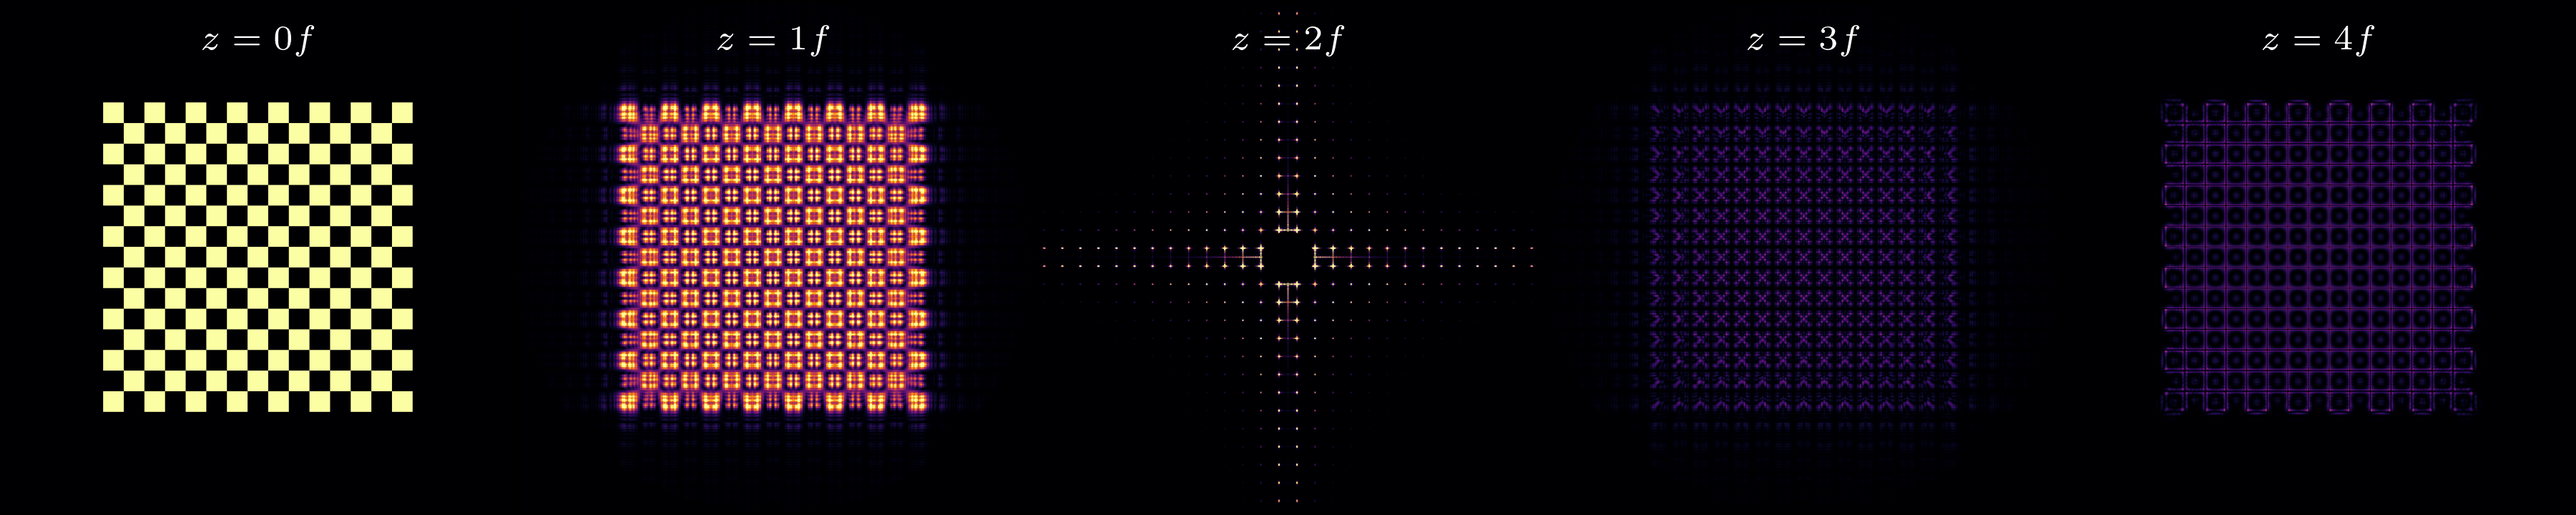
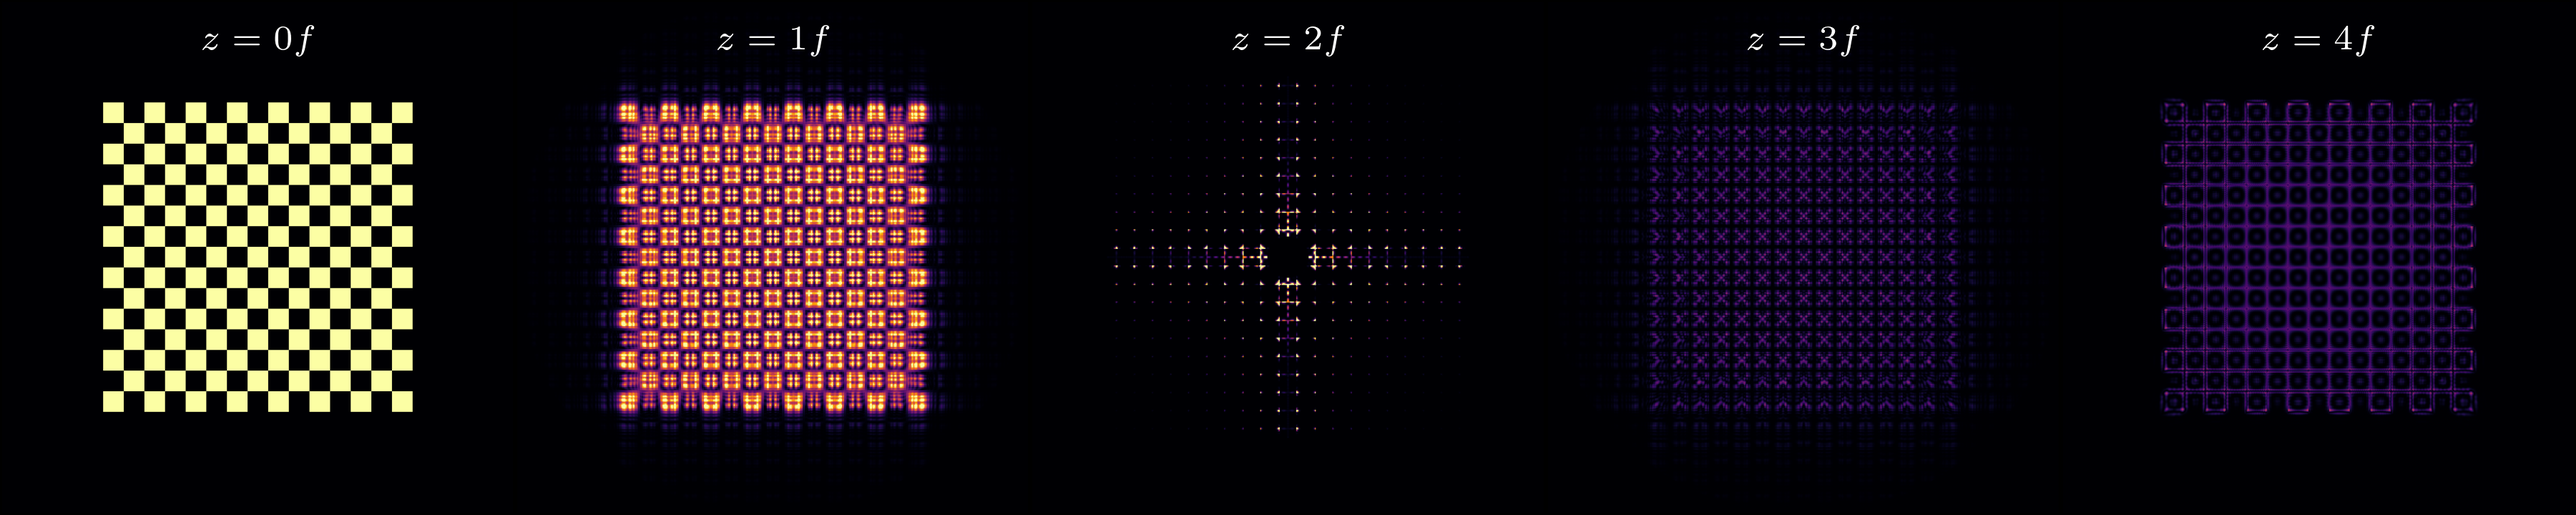
Update documentation (#93)

diff --git a/examples/optical_systems/4f_system.py b/examples/optical_systems/4f_system.py
@@ -9,7 +9,7 @@ transform of the field at the midplane. Inserting amplitude masks at this Fourie
 plane enables spatial filtering: low-pass filters smooth the image, while high-pass
 filters extract edges and fine detail.
 
-The four focal planes have distinct physical meanings:
+The five key planes have distinct physical meanings:
 
 - :math:`z = 0` — Input plane: the object field
 - :math:`z = f` — Back focal plane of lens 1: spatial frequency spectrum begins forming
@@ -39,12 +39,12 @@ from torchoptics.profiles import checkerboard, circle
 # A checkerboard input field tests both low- and high-frequency response,
 # since a checkerboard contains spatial frequencies near its fundamental tile period.
 
-shape = 1000  # Grid size (number of points per dimension)
+shape = 500  # Grid size (number of points per dimension)
 spacing = 10e-6  # Grid spacing (m)
 wavelength = 700e-9  # Wavelength (m)
-focal_length = 200e-3  # Lens focal length (m)
+focal_length = 50e-3  # Lens focal length (m)
 
-tile_length = 400e-6  # Checkerboard tile size (m)
+tile_length = 200e-6  # Checkerboard tile size (m)
 num_tiles = 15  # Number of tiles in each dimension
 
 device = "cuda" if torch.cuda.is_available() else "cpu"
@@ -90,7 +90,7 @@ plt.show()
 # frequencies, leaving only the low-frequency content. The result is a blurred
 # version of the input; edges are smoothed and fine detail is lost.
 
-radius = 500e-6  # Low-pass filter radius in the Fourier plane (m)
+radius = 200e-6  # Low-pass filter radius in the Fourier plane (m)
 low_pass_profile = circle(shape, radius)
 
 low_pass_4f_system = System(

diff --git a/examples/optimization/training_petal_beam.py b/examples/optimization/training_petal_beam.py
@@ -52,7 +52,7 @@ torchoptics.set_default_wavelength(700e-9)
 # Target Field: Eight-Petal Beam
 # ------------------------------
 # The target is an interference pattern formed by the superposition of two Laguerre-Gaussian
-# modes :math:`\mathrm{LG}_{0}^{4}` and :math:`\mathrm{LG}_{0}^{-4}`, producing an
+# modes :math:`\mathrm{LG}_{0}^{+4}` and :math:`\mathrm{LG}_{0}^{-4}`, producing an
 # eight-petal intensity distribution.
 
 petal_profile = laguerre_gaussian(shape, p=0, l=4, waist_radius=waist_radius)

diff --git a/docs/source/quickstart/index.rst b/docs/source/quickstart/index.rst
@@ -62,8 +62,8 @@ Let's create a field from a circular aperture:
 .. plot::
     :context: close-figs
 
-    shape = 1000  # 1000×1000 grid (10 mm × 10 mm physical extent)
-    field = Field(circle(shape, radius=2e-3))
+    shape = 500  # 500×500 grid (5 mm × 5 mm physical extent)
+    field = Field(circle(shape, radius=1e-3))
     field.visualize(title="Circular Aperture (z = 0)")
 
 Use :meth:`~torchoptics.Field.propagate_to_z` to propagate a field through free space. As light
@@ -73,13 +73,13 @@ travels, it diffracts, producing characteristic patterns at different distances:
     :context: close-figs
 
     # Near-field (Fresnel) diffraction
-    field.propagate_to_z(0.5).visualize(title="z = 0.5 m  (Fresnel region)")
+    field.propagate_to_z(0.2).visualize(title="z = 0.2 m  (Fresnel region)")
 
 .. plot::
     :context: close-figs
 
     # Far-field (Fraunhofer) diffraction: the Airy pattern
-    field.propagate_to_z(10.0).visualize(title="z = 10.0 m  (Fraunhofer region)")
+    field.propagate_to_z(2.0).visualize(title="z = 2.0 m  (Fraunhofer region)")
 
 Close to the aperture (the Fresnel region), diffraction produces fringes near the edges. Far away
 (the Fraunhofer region), the wavefront converges to the `Airy pattern
@@ -107,18 +107,18 @@ where :math:`r = \sqrt{x^2 + y^2}`, :math:`R` is the aperture radius (half the l
 physical extent), :math:`\lambda` is the wavelength, and :math:`f` is the focal length.
 
 Calling an element on a field (``lens(field)``) applies this transformation. Let's focus a Gaussian
-beam with a 400 mm lens:
+beam with a 200 mm lens:
 
 .. plot::
     :context: close-figs
 
-    gaussian_beam = Field(gaussian(shape, waist_radius=3e-3))
+    gaussian_beam = Field(gaussian(shape, waist_radius=1e-3))
     gaussian_beam.visualize(title="Gaussian Beam (z = 0)")
 
 .. plot::
     :context: close-figs
 
-    f = 1  # Focal length: 1 m
+    f = 200e-3  # Focal length: 200 mm
     lens = Lens(shape, f, z=0)
 
     focused = lens(gaussian_beam).propagate_to_z(f)
@@ -144,15 +144,15 @@ blocks low spatial frequencies, extracting edges from a checkerboard:
 .. plot::
     :context: close-figs
 
-    input_field = Field(checkerboard(shape, tile_length=400e-6, num_tiles=15))
+    input_field = Field(checkerboard(shape, tile_length=200e-6, num_tiles=15))
     input_field.visualize(title="Input Field", vmax=1)
 
 .. plot::
     :context: close-figs
 
     # High-pass filter at the Fourier plane (z = 2f)
-    f = 200e-3  # Focal length: 200 mm
-    filter_mask = 1 - circle(shape, radius=500e-6)
+    f = 50e-3  # Focal length: 50 mm
+    filter_mask = 1 - circle(shape, radius=200e-6)
     aperture = AmplitudeModulator(filter_mask, z=2 * f)
 
     aperture.visualize(title="High-Pass Filter at Fourier Plane")

diff --git a/docs/source/user-guide/fields.rst b/docs/source/user-guide/fields.rst
@@ -152,16 +152,17 @@ The overlap integral between two fields is:
 
 .. math::
 
-    \langle \psi_1 | \psi_2 \rangle = \sum_{i,j} \psi_1^*(i,j) \, \psi_2(i,j) \, \Delta A
+    \eta = \sum_{i,j} \psi_1(i,j) \, \psi_2^*(i,j) \, \Delta A
 
-:meth:`~torchoptics.Field.inner` returns this as a complex scalar. Taking the squared magnitude
-gives the **mode overlap** :math:`|\langle\psi_1|\psi_2\rangle|^2`: a value in :math:`[0, 1]`
-when both fields are normalized to unit power (by Cauchy–Schwarz), and a natural fidelity metric
-for inverse design (see :doc:`inverse_design`):
+:meth:`~torchoptics.Field.inner` returns this as a complex scalar, where :math:`\psi_1` is
+``self`` and :math:`\psi_2` is the argument. Taking the squared magnitude gives the
+**mode overlap** :math:`|\eta|^2`: a value in :math:`[0, 1]` when both fields are normalized
+to unit power (by Cauchy–Schwarz), and a natural fidelity metric for inverse design
+(see :doc:`inverse_design`):
 
 .. code-block:: python
 
-    overlap = field_a.inner(field_b).abs().square()  # in [0, 1] if both normalized
+    overlap = field_a.inner(field_b).abs().square()  # |η|² in [0, 1] if both normalized
     loss = 1 - overlap
 
 Both fields must share the same geometry (``shape``, ``spacing``, ``offset``, and ``z``).

diff --git a/docs/source/user-guide/spatial_coherence.rst b/docs/source/user-guide/spatial_coherence.rst
@@ -45,10 +45,11 @@ and Gaussian coherence:
     \Gamma(x_1, y_1, x_2, y_2) = \sqrt{I(x_1,y_1)\,I(x_2,y_2)} \cdot
     \exp\!\left(-\frac{|\mathbf{r}_1-\mathbf{r}_2|^2}{2\sigma_c^2}\right)
 
-where :math:`I(x,y) = \exp(-2r^2/w^2)` is the Gaussian intensity with waist :math:`w`, and
-:math:`\sigma_c` is the **coherence width**: the length scale over which the field remains
-correlated. A small :math:`\sigma_c` (much less than :math:`w`) gives a low-coherence source
-like an LED; a large :math:`\sigma_c` approaches a coherent Gaussian beam:
+where :math:`I(x,y) = \frac{2}{\pi w^2}\exp(-2r^2/w^2)` is the Gaussian intensity with waist
+:math:`w` (normalized to unit power), and :math:`\sigma_c` is the **coherence width**: the
+length scale over which the field remains correlated. A small :math:`\sigma_c` (much less than
+:math:`w`) gives a low-coherence source like an LED; a large :math:`\sigma_c` approaches a
+coherent Gaussian beam:
 
 .. plot::
     :context: reset

diff --git a/docs/source/user-guide/propagation.rst b/docs/source/user-guide/propagation.rst
@@ -19,9 +19,10 @@ a critical distance :math:`z_c` and comparing it to the propagation distance
 
     z_c = \frac{2 \, |x_\text{max}| \, \Delta}{\lambda}
 
-where :math:`|x_\text{max}|` is the maximum coordinate magnitude across both planes
-(half the physical field width), :math:`\Delta` is the spacing, and :math:`\lambda` is the
-wavelength.
+where :math:`|x_\text{max}|` denotes, for each transverse dimension (x and y), the maximum
+coordinate separation along that dimension between any grid point in the input plane and
+any grid point in the propagation plane; :math:`\Delta` is the grid spacing in that
+dimension, and :math:`\lambda` is the wavelength.
 
 - :math:`|\Delta z| < z_c` in at least one dimension → **ASM** (short-distance regime).
 - Otherwise → **DIM** (long-distance regime).

diff --git a/README.md b/README.md
@@ -77,14 +77,14 @@ device = "cuda" if torch.cuda.is_available() else "cpu"
 torchoptics.set_default_spacing(10e-6)
 torchoptics.set_default_wavelength(700e-9)
 
-shape = 1000
-f = 200e-3
+shape = 500  # Number of grid points in each dimension
+f = 50e-3  # Lens focal length (m)
 
-input_field = Field(checkerboard(shape, tile_length=400e-6, num_tiles=15)).to(device)
+input_field = Field(checkerboard(shape, tile_length=200e-6, num_tiles=15)).to(device)
 
 system = System(
     Lens(shape, f, z=1 * f),
-    AmplitudeModulator(1 - circle(shape, radius=5e-4), z=2 * f),
+    AmplitudeModulator(1 - circle(shape, radius=200e-6), z=2 * f),
     Lens(shape, f, z=3 * f),
 ).to(device)
 
